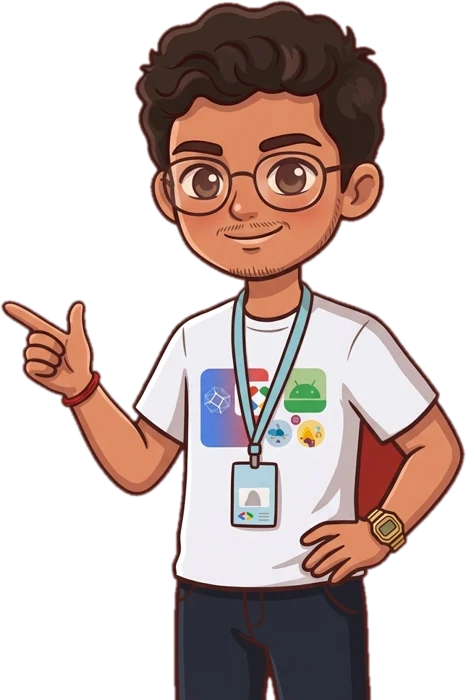
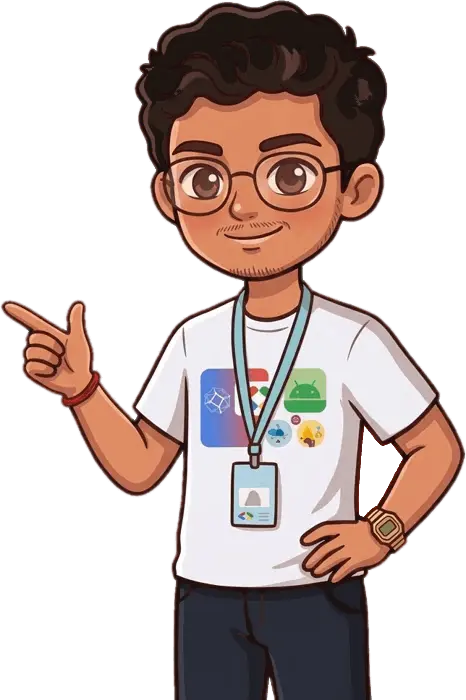
SEO: metadata, keywords, canonical, JSON-LD, robots and sitemap; include pending hero image and format edits

diff --git a/app/page.tsx b/app/page.tsx
@@ -7,10 +7,12 @@ import Testimonials from "@/components/Testimonials";
 import { ArrowRight, BookOpenCheck, CalendarCheck, Check, ClipboardCheck, FileText, Flame, ListChecks, Moon, Network, Sparkles, Target, Trophy, Zap } from "lucide-react";
 import { FAQ } from "@/content/faq";
 import "./home.css";
+import { DESCRIPTION, SITE_NAME, SITE_URL } from "@/lib/seo";
 
 export const metadata = {
-  title: "Paartha: know what to study next",
-  description: "Notes, important questions, flashcards, quizzes and a study plan for every unit of your university course.",
+  title: { absolute: "Paartha (Partha): GITAM exam prep app for notes, important questions and quizzes" },
+  description: DESCRIPTION,
+  alternates: { canonical: "/" },
 };
 
 const needs = [
@@ -42,8 +44,20 @@ const TICKER = ["know what to study next", "important questions by marks", "the 
 
 export default function Home() {
   const faq = FAQ.flatMap((g) => g.items).filter((i) => !/stuck|ticket|refund|language/i.test(i.q)).slice(0, 8);
+  const ld = [
+    { "@context": "https://schema.org", "@type": "Organization", name: "the ananta", url: "https://theananta.in", brand: { "@type": "Brand", name: SITE_NAME }, logo: `${SITE_URL}/og_image.png` },
+    { "@context": "https://schema.org", "@type": "WebSite", name: SITE_NAME, alternateName: ["Partha", "Paartha app", "Paartha exam prep"], url: SITE_URL, inLanguage: "en-IN" },
+    {
+      "@context": "https://schema.org", "@type": "SoftwareApplication", name: SITE_NAME, alternateName: ["Partha", "Paartha exam prep"], applicationCategory: "EducationalApplication",
+      operatingSystem: "Android, iOS, macOS, Windows", description: DESCRIPTION, url: SITE_URL, image: `${SITE_URL}/og_image.png`,
+      audience: { "@type": "EducationalAudience", educationalRole: "student", audienceType: "GITAM engineering students" },
+      offers: { "@type": "Offer", price: "0", priceCurrency: "INR" },
+    },
+    { "@context": "https://schema.org", "@type": "FAQPage", mainEntity: faq.map((i) => ({ "@type": "Question", name: i.q, acceptedAnswer: { "@type": "Answer", text: i.a } })) },
+  ];
   return (
     <>
+      <script type="application/ld+json" dangerouslySetInnerHTML={{ __html: JSON.stringify(ld).replace(/</g, "\\u003c") }} />
       <div className="topbar"><Link href="/courses">Paartha is live · Get your courses now <ArrowRight size={16} aria-hidden /></Link></div>
       <Header />
       <main className="hv">
@@ -64,8 +78,8 @@ export default function Home() {
               <p className="fine">Live now on Android, iOS, macOS and Windows</p>
             </div>
             <div className="hart">
-              <div className="blob" aria-hidden />
-              <img src="/home/hero_study.webp" alt="Three Paartha students surrounded by books and loose papers the night before an exam" width={747} height={1000} />
+              {/* <div className="blob" aria-hidden /> */}
+              <img src="/home/hero_study.png" alt="Three Paartha students surrounded by books and loose papers the night before an exam" width={747} height={1000} />
               <span className="hchip c1"><BookOpenCheck size={18} aria-hidden /> Exam tomorrow, 9 AM</span>
               <span className="hchip c2 ok"><Check size={18} strokeWidth={3} aria-hidden /> Important questions, ready</span>
             </div>

diff --git a/components/AccountClient.tsx b/components/AccountClient.tsx
@@ -106,24 +106,24 @@ export default function AccountClient() {
   if (phase === "signedOut")
     return (
       <AuthShell art="char_4_mudras" kicker="Your Paartha account" title="Your mudras, courses and details." points={["See and top up your mudras", "Every course you have bought", "Manage your account on the web"]}>
-      <section className="acct-card">
-        <h2>Sign in</h2>
-        <p className="muted">Use the same Google or Apple account you use for Paartha.</p>
-        {message && <p className={`acct-msg ${message.kind}`}>{message.text}</p>}
-        <button className="acct-btn google" disabled={signingIn} onClick={() => signIn("google")}><GoogleLogo />Continue with Google</button>
-        <button className="acct-btn apple" disabled={signingIn} onClick={() => signIn("apple")}><AppleLogo />Continue with Apple</button>
-      </section>
+        <section className="acct-card">
+          <h2>Sign in</h2>
+          <p className="muted">Use the same Google or Apple account you use for Paartha.</p>
+          {message && <p className={`acct-msg ${message.kind}`}>{message.text}</p>}
+          <button className="acct-btn google" disabled={signingIn} onClick={() => signIn("google")}><GoogleLogo />Continue with Google</button>
+          <button className="acct-btn apple" disabled={signingIn} onClick={() => signIn("apple")}><AppleLogo />Continue with Apple</button>
+        </section>
       </AuthShell>
     );
 
   if (phase === "notRegistered")
     return (
       <AuthShell art="char_3_foryou" kicker="No account yet" title="We couldn't find you.">
-      <section className="acct-card">
-        <h2>We couldn&rsquo;t find a Paartha account</h2>
-        <p className="muted">{user?.email ?? "This sign-in"} isn&rsquo;t registered with Paartha yet. Sign in with the account you registered with, or write to <a href={`mailto:${SUPPORT}`}>{SUPPORT}</a>.</p>
-        <button className="acct-btn" onClick={() => signOut(auth)}>Sign out</button>
-      </section>
+        <section className="acct-card">
+          <h2>We couldn&rsquo;t find a Paartha account</h2>
+          <p className="muted">{user?.email ?? "This sign-in"} isn&rsquo;t registered with Paartha yet. Sign in with the account you registered with, or write to <a href={`mailto:${SUPPORT}`}>{SUPPORT}</a>.</p>
+          <button className="acct-btn" onClick={() => signOut(auth)}>Sign out</button>
+        </section>
       </AuthShell>
     );
 
@@ -142,7 +142,7 @@ export default function AccountClient() {
     <>
       <section className="acct-banner">
         <img className="abimg" src="/home/char_6_profile.webp" alt="" />
-        <div className="avatar">{account.image ? <img src={account.image} alt="" /> : <span>{account.name.slice(0, 1).toUpperCase()}</span>}</div>
+        <div className="avatar">{account.image ? <img src={account.image} alt="" referrerPolicy="no-referrer" /> : <span>{account.name.slice(0, 1).toUpperCase()}</span>}</div>
         <div>
           <h2>{account.name}</h2>
           <p>Joined in {joined(account.joined_at)}</p>

diff --git a/app/layout.tsx b/app/layout.tsx
@@ -1,15 +1,25 @@
 import type { Metadata } from "next";
 import { Funnel_Sans } from "next/font/google";
 import "./globals.css";
+import { DESCRIPTION, KEYWORDS, SITE_NAME, SITE_URL } from "@/lib/seo";
 
 const funnel = Funnel_Sans({ subsets: ["latin"], display: "swap" });
 
 export const metadata: Metadata = {
-  metadataBase: new URL(process.env.NEXT_PUBLIC_SITE_URL || "https://paartha.theananta.in"),
-  openGraph: { images: [{ url: "/og_image.png", width: 1200, height: 630 }], siteName: "Paartha", type: "website" },
-  twitter: { card: "summary_large_image", images: ["/og_image.png"] },
-  title: { default: "Paartha: revise smarter, the night before and every night", template: "%s · Paartha" },
-  description: "Notes, important questions, cheatsheets, flashcards and quizzes for every unit, built around your exam.",
+  metadataBase: new URL(SITE_URL),
+  applicationName: SITE_NAME,
+  title: { default: "Paartha: GITAM exam prep app for notes, important questions and quizzes", template: "%s · Paartha" },
+  description: DESCRIPTION,
+  keywords: KEYWORDS,
+  authors: [{ name: "the ananta", url: "https://theananta.in" }],
+  creator: "the ananta",
+  publisher: "the ananta",
+  category: "education",
+  alternates: { canonical: "/" },
+  robots: { index: true, follow: true, googleBot: { index: true, follow: true, "max-image-preview": "large", "max-snippet": -1 } },
+  openGraph: { type: "website", siteName: SITE_NAME, locale: "en_IN", url: "/", title: "Paartha: know what to study next", description: DESCRIPTION, images: [{ url: "/og_image.png", width: 1200, height: 630, alt: "Paartha, the exam prep app for GITAM engineering students" }] },
+  twitter: { card: "summary_large_image", title: "Paartha: know what to study next", description: DESCRIPTION, images: ["/og_image.png"] },
+  formatDetection: { telephone: false, email: false, address: false },
 };
 
 export default function RootLayout({ children }: { children: React.ReactNode }) {

diff --git a/app/globals.css b/app/globals.css
@@ -404,7 +404,8 @@ details p {
   border-radius: 50%;
   overflow: hidden;
   background: var(--nautilus);
-  color: #fff;
+  box-sizing: content-box;
+  border: 6px solid #24527a;
   display: grid;
   place-items: center;
   font-size: 26px;
@@ -2511,7 +2512,8 @@ header.site nav a.navcta {
   font-size: 32px;
   font-weight: 800;
   flex: none;
-  border: 4px solid #fff;
+  box-sizing: content-box;
+  border: 8px solid #24527a;
   position: relative;
   z-index: 2;
 }
@@ -2651,7 +2653,30 @@ body .authform .acct-card {
   background-image: radial-gradient(#ffffff1f 1.4px, transparent 1.6px);
   background-size: 22px 22px;
 }
+
 /* Account banner: the character sits fully inside the banner, on its own yellow circle */
-.acct-banner { min-height: 170px; }
-.acct-banner .abimg { background: none; right: 26px; bottom: 0; height: calc(100% - 14px); max-height: 170px; width: auto; z-index: 1; }
-.acct-banner::after { content: ""; position: absolute; right: -6px; bottom: -70px; width: 210px; height: 210px; border-radius: 50%; background: #ffc933; z-index: 0; }
+.acct-banner {
+  min-height: 170px;
+}
+
+.acct-banner .abimg {
+  background: none;
+  right: 26px;
+  bottom: 0;
+  height: calc(100% - 14px);
+  max-height: 170px;
+  width: auto;
+  z-index: 1;
+}
+
+.acct-banner::after {
+  content: "";
+  position: absolute;
+  right: -6px;
+  bottom: -70px;
+  width: 210px;
+  height: 210px;
+  border-radius: 50%;
+  background: #ffc933;
+  z-index: 0;
+}

diff --git a/lib/seo.ts b/lib/seo.ts
@@ -1,0 +1,16 @@
+export const SITE_URL = process.env.NEXT_PUBLIC_SITE_URL || "https://paartha.theananta.in";
+export const SITE_NAME = "Paartha";
+
+/** What people type when they look for the app: the name and its common spellings, plus what it is for. */
+export const KEYWORDS = [
+  "Paartha", "Partha", "Parthaa", "Paartha app", "Partha app", "Paartha exam prep", "Partha exam prep",
+  "Paartha study app", "Paartha Android", "Paartha iOS", "Paartha Windows", "Paartha macOS",
+  "GITAM exam prep", "GITAM exam preparation", "GITAM study app", "GITAM notes", "GITAM important questions",
+  "GITAM previous year question papers", "GITAM sessional preparation", "GITAM semester exam", "GITAM engineering notes",
+  "GITAM cheatsheets", "GITAM quizzes", "GITAM mind maps", "GITAM last minute preparation",
+  "engineering exam prep", "engineering notes", "important questions by marks", "last minute exam preparation",
+  "night before exam study", "study plan app for college students", "university exam preparation app",
+];
+
+export const DESCRIPTION =
+  "Paartha (also searched as Partha) is the exam prep app for GITAM engineering students: notes, important questions by marks, cheatsheets, flashcards, quizzes, mind maps and a study plan built around your exam dates. On Android, iOS, macOS and Windows.";

diff --git a/app/sitemap.ts b/app/sitemap.ts
@@ -1,0 +1,13 @@
+import type { MetadataRoute } from "next";
+import { SITE_URL } from "@/lib/seo";
+
+export default function sitemap(): MetadataRoute.Sitemap {
+  const now = new Date();
+  return [
+    { url: `${SITE_URL}/`, lastModified: now, changeFrequency: "weekly", priority: 1 },
+    { url: `${SITE_URL}/support`, lastModified: now, changeFrequency: "monthly", priority: 0.7 },
+    { url: `${SITE_URL}/terms`, lastModified: now, changeFrequency: "yearly", priority: 0.3 },
+    { url: `${SITE_URL}/privacy`, lastModified: now, changeFrequency: "yearly", priority: 0.3 },
+    { url: `${SITE_URL}/delete-account`, lastModified: now, changeFrequency: "yearly", priority: 0.2 },
+  ];
+}

diff --git a/app/privacy/page.tsx b/app/privacy/page.tsx
@@ -2,7 +2,7 @@ import { LegalPage } from "@/components/LegalPage";
 
 // Read from disk on every request, so replacing content/legal/privacy.html (or LEGAL_CONTENT_DIR) updates the page at once.
 export const dynamic = "force-dynamic";
-export const metadata = { title: "Privacy Policy" };
+export const metadata = { title: "Privacy Policy", description: "How Paartha, the exam prep app, handles your data.", alternates: { canonical: "/privacy" } };
 
 export default async function Privacy({ searchParams }: { searchParams: Promise<{ embed?: string }> }) {
   return <LegalPage doc="privacy" embed={(await searchParams).embed === "1"} />;

diff --git a/app/terms/page.tsx b/app/terms/page.tsx
@@ -2,7 +2,7 @@ import { LegalPage } from "@/components/LegalPage";
 
 // Read from disk on every request, so replacing content/legal/terms.html (or LEGAL_CONTENT_DIR) updates the page at once.
 export const dynamic = "force-dynamic";
-export const metadata = { title: "Terms & Conditions" };
+export const metadata = { title: "Terms & Conditions", description: "The terms for using Paartha, the exam prep app.", alternates: { canonical: "/terms" } };
 
 export default async function Terms({ searchParams }: { searchParams: Promise<{ embed?: string }> }) {
   return <LegalPage doc="terms" embed={(await searchParams).embed === "1"} />;

diff --git a/app/home.css b/app/home.css
@@ -139,7 +139,7 @@
   width: fit-content;
   font-style: normal;
   color: #eab830;
-  text-shadow: 0 4px 0 rgba(0, 0, 0, 0.3);
+  text-shadow: 0 10px 0 rgba(0, 0, 0, 0.32);
 }
 
 .ticks {
@@ -823,7 +823,7 @@
 }
 
 .faqitem.on .faqq {
-  background: #e0383e;
+  background: #bf3135;
   color: #fff;
   border-radius: 20px 20px 0 0;
 }
@@ -835,7 +835,7 @@
 
 .faqitem.on .faqq span::before,
 .faqitem.on .faqq span::after {
-  background: #e0383e;
+  background: #bf3135;
 }
 
 .faqwrap {

diff --git a/app/support/page.tsx b/app/support/page.tsx
@@ -1,7 +1,11 @@
 import { Footer, Header, SUPPORT_EMAIL } from "@/components/Chrome";
 import { FAQ } from "@/content/faq";
 
-export const metadata = { title: "Support" };
+export const metadata = {
+  title: "Support and FAQ",
+  description: "Help with Paartha, the GITAM exam prep app: signing in, courses, mudras, payments and your account.",
+  alternates: { canonical: "/support" },
+};
 
 export default function Support() {
   return (

diff --git a/app/robots.ts b/app/robots.ts
@@ -1,0 +1,10 @@
+import type { MetadataRoute } from "next";
+import { SITE_URL } from "@/lib/seo";
+
+export default function robots(): MetadataRoute.Robots {
+  return {
+    rules: [{ userAgent: "*", allow: "/", disallow: ["/account", "/cart", "/courses", "/pay/", "/invite/", "/tools/"] }],
+    sitemap: `${SITE_URL}/sitemap.xml`,
+    host: SITE_URL,
+  };
+}

diff --git a/app/account/page.tsx b/app/account/page.tsx
@@ -1,7 +1,7 @@
 import AccountClient from "@/components/AccountClient";
 import { Footer, Header } from "@/components/Chrome";
 
-export const metadata = { title: "Your account" };
+export const metadata = { title: "Your account", robots: { index: false, follow: false } };
 
 export default function Account() {
   return (
